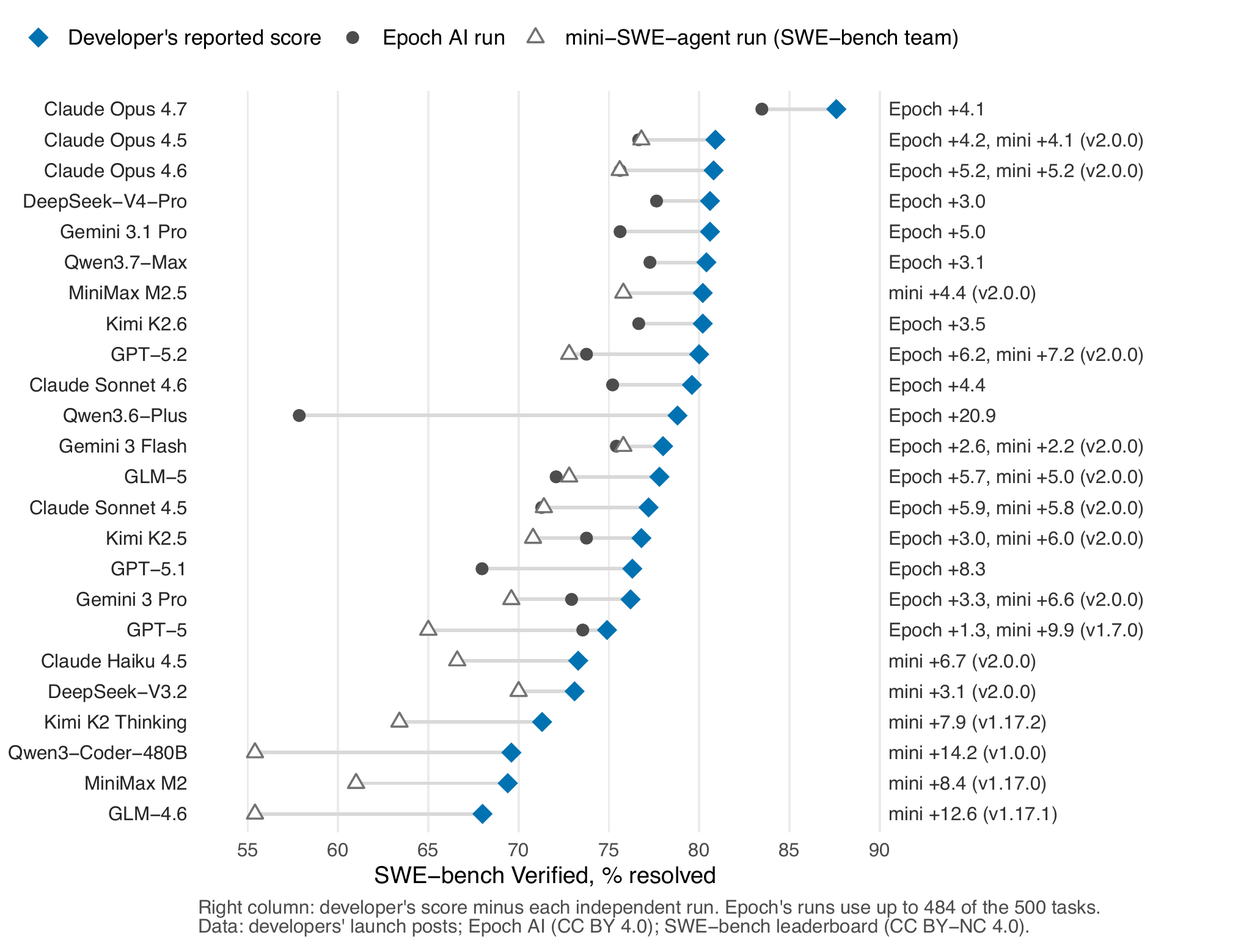
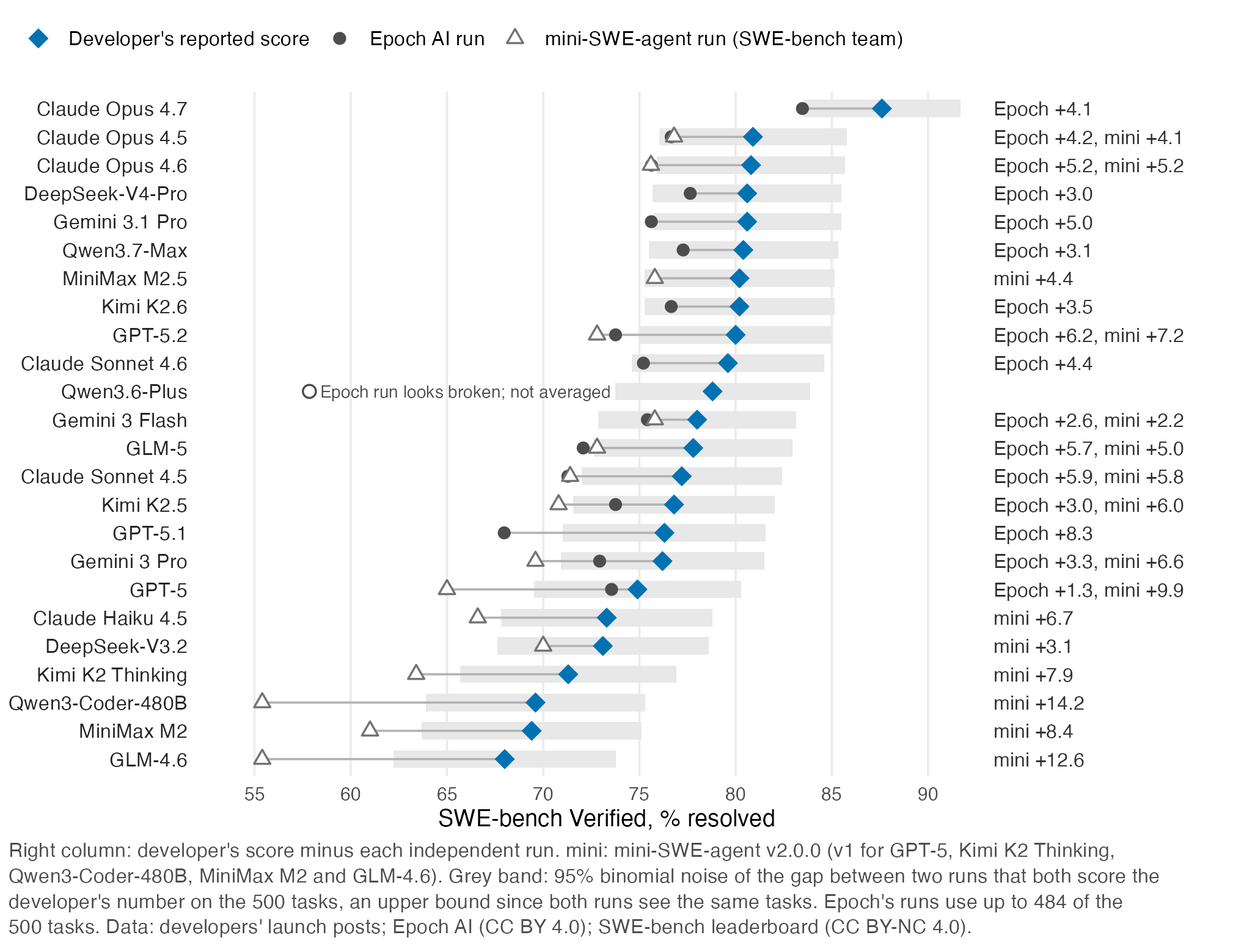
deploy: SolomonMg/website-hugo5@394f26f463defe457b8ee0e11236003db4a195b8

Changed region(s): [[0.0, 0.093, 0.937, 0.9916], [0.0, 0.093, 0.1562, 0.8677], [0.0625, 0.031, 0.7496, 0.062]]

diff --git a/index.html b/index.html
@@ -474,7 +474,7 @@ window.Quarto = {
 <div class="home-section"><h2 class="anchored">Writing</h2><a class="more" href="blog.html">Browse &amp; filter →</a></div>
 <div id="listing-all-posts" class="quarto-listing quarto-listing-container-default">
 <div class="list quarto-listing-default">
-<div class="quarto-post image-right" data-index="0" data-listing-date-sort="1794873600000" data-listing-file-modified-sort="1795020041529" data-listing-date-modified-sort="NaN" data-listing-reading-time-sort="13" data-listing-word-count-sort="2569">
+<div class="quarto-post image-right" data-index="0" data-listing-date-sort="1794873600000" data-listing-file-modified-sort="1795033465979" data-listing-date-modified-sort="NaN" data-listing-reading-time-sort="14" data-listing-word-count-sort="2761">
 <div class="thumbnail"><a href="./blog/hidden-measurement-error-llm-evals/index.html" class="no-external-icon">
 
 <img loading="lazy" src="./blog/hidden-measurement-error-llm-evals/featured.png" class="thumbnail-image">
@@ -498,7 +498,7 @@ Nov 17, 2026
 </a>
 </div>
 </div>
-<div class="quarto-post image-right" data-index="1" data-listing-date-sort="1779580800000" data-listing-file-modified-sort="1795020041544" data-listing-date-modified-sort="NaN" data-listing-reading-time-sort="4" data-listing-word-count-sort="687">
+<div class="quarto-post image-right" data-index="1" data-listing-date-sort="1779580800000" data-listing-file-modified-sort="1795033465990" data-listing-date-modified-sort="NaN" data-listing-reading-time-sort="4" data-listing-word-count-sort="687">
 <div class="thumbnail"><a href="./blog/state-media-llm/index.html" class="no-external-icon">
 
 <img loading="lazy" src="./blog/state-media-llm/featured.png" class="thumbnail-image">
@@ -522,7 +522,7 @@ May 24, 2026
 </a>
 </div>
 </div>
-<div class="quarto-post image-right" data-index="2" data-listing-date-sort="1704931200000" data-listing-file-modified-sort="1795020041516" data-listing-date-modified-sort="NaN" data-listing-reading-time-sort="8" data-listing-word-count-sort="1468">
+<div class="quarto-post image-right" data-index="2" data-listing-date-sort="1704931200000" data-listing-file-modified-sort="1795033465967" data-listing-date-modified-sort="NaN" data-listing-reading-time-sort="8" data-listing-word-count-sort="1468">
 <div class="thumbnail"><a href="./blog/election-projection-regularized-swing/index.html" class="no-external-icon">
 
 <img loading="lazy" src="./blog/election-projection-regularized-swing/featured.png" class="thumbnail-image">
@@ -546,7 +546,7 @@ Jan 11, 2024
 </a>
 </div>
 </div>
-<div class="quarto-post image-right" data-index="3" data-listing-date-sort="1690934400000" data-listing-file-modified-sort="1795020041545" data-listing-date-modified-sort="NaN" data-listing-reading-time-sort="25" data-listing-word-count-sort="4887">
+<div class="quarto-post image-right" data-index="3" data-listing-date-sort="1690934400000" data-listing-file-modified-sort="1795033465991" data-listing-date-modified-sort="NaN" data-listing-reading-time-sort="25" data-listing-word-count-sort="4887">
 <div class="thumbnail"><a href="./blog/thoughts-on-election-2020/index.html" class="no-external-icon">
 
 <img loading="lazy" src="./blog/thoughts-on-election-2020/featured.jpeg" class="thumbnail-image">
@@ -570,7 +570,7 @@ Aug 2, 2023
 </a>
 </div>
 </div>
-<div class="quarto-post image-right" data-index="4" data-listing-date-sort="1680480000000" data-listing-file-modified-sort="1795020041514" data-listing-date-modified-sort="NaN" data-listing-reading-time-sort="15" data-listing-word-count-sort="2888">
+<div class="quarto-post image-right" data-index="4" data-listing-date-sort="1680480000000" data-listing-file-modified-sort="1795033465966" data-listing-date-modified-sort="NaN" data-listing-reading-time-sort="15" data-listing-word-count-sort="2888">
 <div class="thumbnail"><a href="./blog/bluesky-quasi-decentralized-social-network/index.html" class="no-external-icon">
 
 <img loading="lazy" src="./blog/bluesky-quasi-decentralized-social-network/featured.jpg" class="thumbnail-image">
@@ -594,7 +594,7 @@ Apr 3, 2023
 </a>
 </div>
 </div>
-<div class="quarto-post image-right" data-index="5" data-listing-date-sort="1680480000000" data-listing-file-modified-sort="1795020041558" data-listing-date-modified-sort="NaN" data-listing-reading-time-sort="8" data-listing-word-count-sort="1558">
+<div class="quarto-post image-right" data-index="5" data-listing-date-sort="1680480000000" data-listing-file-modified-sort="1795033466001" data-listing-date-modified-sort="NaN" data-listing-reading-time-sort="8" data-listing-word-count-sort="1558">
 <div class="thumbnail"><a href="./blog/twitter-the-algorithm/index.html" class="no-external-icon">
 
 <img loading="lazy" src="./blog/twitter-the-algorithm/featured.png" class="thumbnail-image">
@@ -618,7 +618,7 @@ Apr 3, 2023
 </a>
 </div>
 </div>
-<div class="quarto-post image-right" data-index="6" data-listing-date-sort="1604793600000" data-listing-file-modified-sort="1795020041562" data-listing-date-modified-sort="NaN" data-listing-reading-time-sort="9" data-listing-word-count-sort="1608">
+<div class="quarto-post image-right" data-index="6" data-listing-date-sort="1604793600000" data-listing-file-modified-sort="1795033466004" data-listing-date-modified-sort="NaN" data-listing-reading-time-sort="9" data-listing-word-count-sort="1608">
 <div class="thumbnail"><a href="./blog/what-the-polls-got-wrong-in-2020/index.html" class="no-external-icon">
 
 <img loading="lazy" src="./blog/what-the-polls-got-wrong-in-2020/featured.png" class="thumbnail-image">
@@ -642,7 +642,7 @@ Nov 8, 2020
 </a>
 </div>
 </div>
-<div class="quarto-post image-right" data-index="7" data-listing-date-sort="1592611200000" data-listing-file-modified-sort="1795020041553" data-listing-date-modified-sort="NaN" data-listing-reading-time-sort="11" data-listing-word-count-sort="2041">
+<div class="quarto-post image-right" data-index="7" data-listing-date-sort="1592611200000" data-listing-file-modified-sort="1795033465997" data-listing-date-modified-sort="NaN" data-listing-reading-time-sort="11" data-listing-word-count-sort="2041">
 <div class="thumbnail"><a href="./blog/trumps-chances-are-better-than-they-look/index.html" class="no-external-icon">
 
 <img loading="lazy" src="./blog/trumps-chances-are-better-than-they-look/featured.jpg" class="thumbnail-image">
@@ -666,7 +666,7 @@ Jun 20, 2020
 </a>
 </div>
 </div>
-<div class="quarto-post image-right" data-index="8" data-listing-date-sort="1589760000000" data-listing-file-modified-sort="1795020041514" data-listing-date-modified-sort="NaN" data-listing-reading-time-sort="2" data-listing-word-count-sort="231">
+<div class="quarto-post image-right" data-index="8" data-listing-date-sort="1589760000000" data-listing-file-modified-sort="1795033465967" data-listing-date-modified-sort="NaN" data-listing-reading-time-sort="2" data-listing-word-count-sort="231">
 <div class="thumbnail"><a href="./blog/condor-data-release/index.html" class="no-external-icon">
 
 <img loading="lazy" src="./blog/condor-data-release/featured.png" class="thumbnail-image">
@@ -690,7 +690,7 @@ May 18, 2020
 </a>
 </div>
 </div>
-<div class="quarto-post image-right" data-index="9" data-listing-date-sort="1589760000000" data-listing-file-modified-sort="1795020041542" data-listing-date-modified-sort="NaN" data-listing-reading-time-sort="8" data-listing-word-count-sort="1406">
+<div class="quarto-post image-right" data-index="9" data-listing-date-sort="1589760000000" data-listing-file-modified-sort="1795033465988" data-listing-date-modified-sort="NaN" data-listing-reading-time-sort="8" data-listing-word-count-sort="1406">
 <div class="thumbnail"><a href="./blog/projecting-confidence/index.html" class="no-external-icon">
 
 <img loading="lazy" src="./blog/projecting-confidence/featured.jpg" class="thumbnail-image">
@@ -714,7 +714,7 @@ May 18, 2020
 </a>
 </div>
 </div>
-<div class="quarto-post image-right" data-index="10" data-listing-date-sort="1589673600000" data-listing-file-modified-sort="1795020041534" data-listing-date-modified-sort="NaN" data-listing-reading-time-sort="1" data-listing-word-count-sort="24">
+<div class="quarto-post image-right" data-index="10" data-listing-date-sort="1589673600000" data-listing-file-modified-sort="1795033465983" data-listing-date-modified-sort="NaN" data-listing-reading-time-sort="1" data-listing-word-count-sort="24">
 <div class="thumbnail"><a href="./blog/impression-of-influence/index.html" class="no-external-icon">
 
 <img loading="lazy" src="./blog/impression-of-influence/featured.png" class="thumbnail-image">
@@ -738,7 +738,7 @@ May 17, 2020
 </a>
 </div>
 </div>
-<div class="quarto-post image-right" data-index="11" data-listing-date-sort="1587859200000" data-listing-file-modified-sort="1795020041543" data-listing-date-modified-sort="NaN" data-listing-reading-time-sort="13" data-listing-word-count-sort="2467">
+<div class="quarto-post image-right" data-index="11" data-listing-date-sort="1587859200000" data-listing-file-modified-sort="1795033465990" data-listing-date-modified-sort="NaN" data-listing-reading-time-sort="13" data-listing-word-count-sort="2467">
 <div class="thumbnail"><a href="./blog/response-to-fivethirtyeights-podcast-about-our-paper-projecting-confidence/index.html" class="no-external-icon">
 
 <img loading="lazy" src="./blog/response-to-fivethirtyeights-podcast-about-our-paper-projecting-confidence/featured.png" class="thumbnail-image">
@@ -762,7 +762,7 @@ Apr 26, 2020
 </a>
 </div>
 </div>
-<div class="quarto-post image-right" data-index="12" data-listing-date-sort="1580601600000" data-listing-file-modified-sort="1795020041561" data-listing-date-modified-sort="NaN" data-listing-reading-time-sort="33" data-listing-word-count-sort="6484">
+<div class="quarto-post image-right" data-index="12" data-listing-date-sort="1580601600000" data-listing-file-modified-sort="1795033466004" data-listing-date-modified-sort="NaN" data-listing-reading-time-sort="33" data-listing-word-count-sort="6484">
 <div class="thumbnail"><a href="./blog/visualization-series-scatterplot-understanding-the-diamond-market/index.html" class="no-external-icon">
 
 <img loading="lazy" src="./blog/visualization-series-scatterplot-understanding-the-diamond-market/featured.png" class="thumbnail-image">
@@ -786,7 +786,7 @@ Feb 2, 2020
 </a>
 </div>
 </div>
-<div class="quarto-post image-right" data-index="13" data-listing-date-sort="1528848000000" data-listing-file-modified-sort="1795020041533" data-listing-date-modified-sort="NaN" data-listing-reading-time-sort="17" data-listing-word-count-sort="3252">
+<div class="quarto-post image-right" data-index="13" data-listing-date-sort="1528848000000" data-listing-file-modified-sort="1795033465982" data-listing-date-modified-sort="NaN" data-listing-reading-time-sort="17" data-listing-word-count-sort="3252">
 <div class="thumbnail"><a href="./blog/how-to-break-regression/index.html" class="no-external-icon">
 
 <img loading="lazy" src="./blog/how-to-break-regression/featured.png" class="thumbnail-image">
@@ -810,7 +810,7 @@ Jun 13, 2018
 </a>
 </div>
 </div>
-<div class="quarto-post image-right" data-index="14" data-listing-date-sort="1508112000000" data-listing-file-modified-sort="1795020041543" data-listing-date-modified-sort="NaN" data-listing-reading-time-sort="17" data-listing-word-count-sort="3333">
+<div class="quarto-post image-right" data-index="14" data-listing-date-sort="1508112000000" data-listing-file-modified-sort="1795033465990" data-listing-date-modified-sort="NaN" data-listing-reading-time-sort="17" data-listing-word-count-sort="3333">
 <div class="thumbnail"><a href="./blog/replication-of-bias-in-the-flesh/index.html" class="no-external-icon">
 
 <img loading="lazy" src="./blog/replication-of-bias-in-the-flesh/featured.png" class="thumbnail-image">
@@ -834,7 +834,7 @@ Oct 16, 2017
 </a>
 </div>
 </div>
-<div class="quarto-post image-right" data-index="15" data-listing-date-sort="1429833600000" data-listing-file-modified-sort="1795020041517" data-listing-date-modified-sort="NaN" data-listing-reading-time-sort="11" data-listing-word-count-sort="2179">
+<div class="quarto-post image-right" data-index="15" data-listing-date-sort="1429833600000" data-listing-file-modified-sort="1795033465968" data-listing-date-modified-sort="NaN" data-listing-reading-time-sort="11" data-listing-word-count-sort="2179">
 <div class="thumbnail"><a href="./blog/exposure-to-ideologically-diverse-response/index.html" class="no-external-icon">
 
 <img loading="lazy" src="./blog/exposure-to-ideologically-diverse-response/featured.png" class="thumbnail-image">
@@ -858,7 +858,7 @@ Apr 24, 2015
 </a>
 </div>
 </div>
-<div class="quarto-post image-right" data-index="16" data-listing-date-sort="1412985600000" data-listing-file-modified-sort="1795020041563" data-listing-date-modified-sort="NaN" data-listing-reading-time-sort="4" data-listing-word-count-sort="764">
+<div class="quarto-post image-right" data-index="16" data-listing-date-sort="1412985600000" data-listing-file-modified-sort="1795033466005" data-listing-date-modified-sort="NaN" data-listing-reading-time-sort="4" data-listing-word-count-sort="764">
 <div class="thumbnail"><a href="./blog/when-to-use-stacked-barcharts/index.html" class="no-external-icon">
 
 <img loading="lazy" src="./blog/when-to-use-stacked-barcharts/featured.png" class="thumbnail-image">
@@ -882,7 +882,7 @@ Oct 11, 2014
 </a>
 </div>
 </div>
-<div class="quarto-post image-right" data-index="17" data-listing-date-sort="1330819200000" data-listing-file-modified-sort="1795020041560" data-listing-date-modified-sort="NaN" data-listing-reading-time-sort="14" data-listing-word-count-sort="2690">
+<div class="quarto-post image-right" data-index="17" data-listing-date-sort="1330819200000" data-listing-file-modified-sort="1795033466003" data-listing-date-modified-sort="NaN" data-listing-reading-time-sort="14" data-listing-word-count-sort="2690">
 <div class="thumbnail"><a href="./blog/visualization-series-insight-from-cleveland-and-tufte-on-plotting-numeric-data-by-groups/index.html" class="no-external-icon">
 
 <img loading="lazy" src="./blog/visualization-series-insight-from-cleveland-and-tufte-on-plotting-numeric-data-by-groups/featured.png" class="thumbnail-image">
@@ -906,7 +906,7 @@ Mar 4, 2012
 </a>
 </div>
 </div>
-<div class="quarto-post image-right" data-index="18" data-listing-date-sort="1330819200000" data-listing-file-modified-sort="1795020041563" data-listing-date-modified-sort="NaN" data-listing-reading-time-sort="17" data-listing-word-count-sort="3397">
+<div class="quarto-post image-right" data-index="18" data-listing-date-sort="1330819200000" data-listing-file-modified-sort="1795033466005" data-listing-date-modified-sort="NaN" data-listing-reading-time-sort="17" data-listing-word-count-sort="3397">
 <div class="thumbnail"><a href="./blog/working-with-bipartite-affiliation-network-data-in-r/index.html" class="no-external-icon">
 
 <img loading="lazy" src="./blog/working-with-bipartite-affiliation-network-data-in-r/featured.jpg" class="thumbnail-image">

diff --git a/blog.html b/blog.html
@@ -451,7 +451,7 @@ window.Quarto = {
     </div>
 </div>
 <div class="list quarto-listing-default">
-<div class="quarto-post image-right" data-index="0" data-listing-date-sort="1794873600000" data-listing-file-modified-sort="1795020041529" data-listing-date-modified-sort="NaN" data-listing-reading-time-sort="13" data-listing-word-count-sort="2569">
+<div class="quarto-post image-right" data-index="0" data-listing-date-sort="1794873600000" data-listing-file-modified-sort="1795033465979" data-listing-date-modified-sort="NaN" data-listing-reading-time-sort="14" data-listing-word-count-sort="2761">
 <div class="thumbnail"><a href="./blog/hidden-measurement-error-llm-evals/index.html" class="no-external-icon">
 
 <img loading="lazy" src="./blog/hidden-measurement-error-llm-evals/featured.png" class="thumbnail-image">
@@ -475,7 +475,7 @@ Nov 17, 2026
 </a>
 </div>
 </div>
-<div class="quarto-post image-right" data-index="1" data-listing-date-sort="1779580800000" data-listing-file-modified-sort="1795020041544" data-listing-date-modified-sort="NaN" data-listing-reading-time-sort="4" data-listing-word-count-sort="687">
+<div class="quarto-post image-right" data-index="1" data-listing-date-sort="1779580800000" data-listing-file-modified-sort="1795033465990" data-listing-date-modified-sort="NaN" data-listing-reading-time-sort="4" data-listing-word-count-sort="687">
 <div class="thumbnail"><a href="./blog/state-media-llm/index.html" class="no-external-icon">
 
 <img loading="lazy" src="./blog/state-media-llm/featured.png" class="thumbnail-image">
@@ -499,7 +499,7 @@ May 24, 2026
 </a>
 </div>
 </div>
-<div class="quarto-post image-right" data-index="2" data-listing-date-sort="1704931200000" data-listing-file-modified-sort="1795020041516" data-listing-date-modified-sort="NaN" data-listing-reading-time-sort="8" data-listing-word-count-sort="1468">
+<div class="quarto-post image-right" data-index="2" data-listing-date-sort="1704931200000" data-listing-file-modified-sort="1795033465967" data-listing-date-modified-sort="NaN" data-listing-reading-time-sort="8" data-listing-word-count-sort="1468">
 <div class="thumbnail"><a href="./blog/election-projection-regularized-swing/index.html" class="no-external-icon">
 
 <img loading="lazy" src="./blog/election-projection-regularized-swing/featured.png" class="thumbnail-image">
@@ -523,7 +523,7 @@ Jan 11, 2024
 </a>
 </div>
 </div>
-<div class="quarto-post image-right" data-index="3" data-listing-date-sort="1690934400000" data-listing-file-modified-sort="1795020041545" data-listing-date-modified-sort="NaN" data-listing-reading-time-sort="25" data-listing-word-count-sort="4887">
+<div class="quarto-post image-right" data-index="3" data-listing-date-sort="1690934400000" data-listing-file-modified-sort="1795033465991" data-listing-date-modified-sort="NaN" data-listing-reading-time-sort="25" data-listing-word-count-sort="4887">
 <div class="thumbnail"><a href="./blog/thoughts-on-election-2020/index.html" class="no-external-icon">
 
 <img loading="lazy" src="./blog/thoughts-on-election-2020/featured.jpeg" class="thumbnail-image">
@@ -547,7 +547,7 @@ Aug 2, 2023
 </a>
 </div>
 </div>
-<div class="quarto-post image-right" data-index="4" data-listing-date-sort="1680480000000" data-listing-file-modified-sort="1795020041514" data-listing-date-modified-sort="NaN" data-listing-reading-time-sort="15" data-listing-word-count-sort="2888">
+<div class="quarto-post image-right" data-index="4" data-listing-date-sort="1680480000000" data-listing-file-modified-sort="1795033465966" data-listing-date-modified-sort="NaN" data-listing-reading-time-sort="15" data-listing-word-count-sort="2888">
 <div class="thumbnail"><a href="./blog/bluesky-quasi-decentralized-social-network/index.html" class="no-external-icon">
 
 <img loading="lazy" src="./blog/bluesky-quasi-decentralized-social-network/featured.jpg" class="thumbnail-image">
@@ -571,7 +571,7 @@ Apr 3, 2023
 </a>
 </div>
 </div>
-<div class="quarto-post image-right" data-index="5" data-listing-date-sort="1680480000000" data-listing-file-modified-sort="1795020041558" data-listing-date-modified-sort="NaN" data-listing-reading-time-sort="8" data-listing-word-count-sort="1558">
+<div class="quarto-post image-right" data-index="5" data-listing-date-sort="1680480000000" data-listing-file-modified-sort="1795033466001" data-listing-date-modified-sort="NaN" data-listing-reading-time-sort="8" data-listing-word-count-sort="1558">
 <div class="thumbnail"><a href="./blog/twitter-the-algorithm/index.html" class="no-external-icon">
 
 <img loading="lazy" src="./blog/twitter-the-algorithm/featured.png" class="thumbnail-image">
@@ -595,7 +595,7 @@ Apr 3, 2023
 </a>
 </div>
 </div>
-<div class="quarto-post image-right" data-index="6" data-listing-date-sort="1604793600000" data-listing-file-modified-sort="1795020041562" data-listing-date-modified-sort="NaN" data-listing-reading-time-sort="9" data-listing-word-count-sort="1608">
+<div class="quarto-post image-right" data-index="6" data-listing-date-sort="1604793600000" data-listing-file-modified-sort="1795033466004" data-listing-date-modified-sort="NaN" data-listing-reading-time-sort="9" data-listing-word-count-sort="1608">
 <div class="thumbnail"><a href="./blog/what-the-polls-got-wrong-in-2020/index.html" class="no-external-icon">
 
 <img loading="lazy" src="./blog/what-the-polls-got-wrong-in-2020/featured.png" class="thumbnail-image">
@@ -619,7 +619,7 @@ Nov 8, 2020
 </a>
 </div>
 </div>
-<div class="quarto-post image-right" data-index="7" data-listing-date-sort="1592611200000" data-listing-file-modified-sort="1795020041553" data-listing-date-modified-sort="NaN" data-listing-reading-time-sort="11" data-listing-word-count-sort="2041">
+<div class="quarto-post image-right" data-index="7" data-listing-date-sort="1592611200000" data-listing-file-modified-sort="1795033465997" data-listing-date-modified-sort="NaN" data-listing-reading-time-sort="11" data-listing-word-count-sort="2041">
 <div class="thumbnail"><a href="./blog/trumps-chances-are-better-than-they-look/index.html" class="no-external-icon">
 
 <img loading="lazy" src="./blog/trumps-chances-are-better-than-they-look/featured.jpg" class="thumbnail-image">
@@ -643,7 +643,7 @@ Jun 20, 2020
 </a>
 </div>
 </div>
-<div class="quarto-post image-right" data-index="8" data-listing-date-sort="1589760000000" data-listing-file-modified-sort="1795020041514" data-listing-date-modified-sort="NaN" data-listing-reading-time-sort="2" data-listing-word-count-sort="231">
+<div class="quarto-post image-right" data-index="8" data-listing-date-sort="1589760000000" data-listing-file-modified-sort="1795033465967" data-listing-date-modified-sort="NaN" data-listing-reading-time-sort="2" data-listing-word-count-sort="231">
 <div class="thumbnail"><a href="./blog/condor-data-release/index.html" class="no-external-icon">
 
 <img loading="lazy" src="./blog/condor-data-release/featured.png" class="thumbnail-image">
@@ -667,7 +667,7 @@ May 18, 2020
 </a>
 </div>
 </div>
-<div class="quarto-post image-right" data-index="9" data-listing-date-sort="1589760000000" data-listing-file-modified-sort="1795020041542" data-listing-date-modified-sort="NaN" data-listing-reading-time-sort="8" data-listing-word-count-sort="1406">
+<div class="quarto-post image-right" data-index="9" data-listing-date-sort="1589760000000" data-listing-file-modified-sort="1795033465988" data-listing-date-modified-sort="NaN" data-listing-reading-time-sort="8" data-listing-word-count-sort="1406">
 <div class="thumbnail"><a href="./blog/projecting-confidence/index.html" class="no-external-icon">
 
 <img loading="lazy" src="./blog/projecting-confidence/featured.jpg" class="thumbnail-image">
@@ -691,7 +691,7 @@ May 18, 2020
 </a>
 </div>
 </div>
-<div class="quarto-post image-right" data-index="10" data-listing-date-sort="1589673600000" data-listing-file-modified-sort="1795020041534" data-listing-date-modified-sort="NaN" data-listing-reading-time-sort="1" data-listing-word-count-sort="24">
+<div class="quarto-post image-right" data-index="10" data-listing-date-sort="1589673600000" data-listing-file-modified-sort="1795033465983" data-listing-date-modified-sort="NaN" data-listing-reading-time-sort="1" data-listing-word-count-sort="24">
 <div class="thumbnail"><a href="./blog/impression-of-influence/index.html" class="no-external-icon">
 
 <img loading="lazy" src="./blog/impression-of-influence/featured.png" class="thumbnail-image">
@@ -715,7 +715,7 @@ May 17, 2020
 </a>
 </div>
 </div>
-<div class="quarto-post image-right" data-index="11" data-listing-date-sort="1587859200000" data-listing-file-modified-sort="1795020041543" data-listing-date-modified-sort="NaN" data-listing-reading-time-sort="13" data-listing-word-count-sort="2467">
+<div class="quarto-post image-right" data-index="11" data-listing-date-sort="1587859200000" data-listing-file-modified-sort="1795033465990" data-listing-date-modified-sort="NaN" data-listing-reading-time-sort="13" data-listing-word-count-sort="2467">
 <div class="thumbnail"><a href="./blog/response-to-fivethirtyeights-podcast-about-our-paper-projecting-confidence/index.html" class="no-external-icon">
 
 <img loading="lazy" src="./blog/response-to-fivethirtyeights-podcast-about-our-paper-projecting-confidence/featured.png" class="thumbnail-image">
@@ -739,7 +739,7 @@ Apr 26, 2020
 </a>
 </div>
 </div>
-<div class="quarto-post image-right" data-index="12" data-listing-date-sort="1580601600000" data-listing-file-modified-sort="1795020041561" data-listing-date-modified-sort="NaN" data-listing-reading-time-sort="33" data-listing-word-count-sort="6484">
+<div class="quarto-post image-right" data-index="12" data-listing-date-sort="1580601600000" data-listing-file-modified-sort="1795033466004" data-listing-date-modified-sort="NaN" data-listing-reading-time-sort="33" data-listing-word-count-sort="6484">
 <div class="thumbnail"><a href="./blog/visualization-series-scatterplot-understanding-the-diamond-market/index.html" class="no-external-icon">
 
 <img loading="lazy" src="./blog/visualization-series-scatterplot-understanding-the-diamond-market/featured.png" class="thumbnail-image">
@@ -763,7 +763,7 @@ Feb 2, 2020
 </a>
 </div>
 </div>
-<div class="quarto-post image-right" data-index="13" data-listing-date-sort="1528848000000" data-listing-file-modified-sort="1795020041533" data-listing-date-modified-sort="NaN" data-listing-reading-time-sort="17" data-listing-word-count-sort="3252">
+<div class="quarto-post image-right" data-index="13" data-listing-date-sort="1528848000000" data-listing-file-modified-sort="1795033465982" data-listing-date-modified-sort="NaN" data-listing-reading-time-sort="17" data-listing-word-count-sort="3252">
 <div class="thumbnail"><a href="./blog/how-to-break-regression/index.html" class="no-external-icon">
 
 <img loading="lazy" src="./blog/how-to-break-regression/featured.png" class="thumbnail-image">
@@ -787,7 +787,7 @@ Jun 13, 2018
 </a>
 </div>
 </div>
-<div class="quarto-post image-right" data-index="14" data-listing-date-sort="1508112000000" data-listing-file-modified-sort="1795020041543" data-listing-date-modified-sort="NaN" data-listing-reading-time-sort="17" data-listing-word-count-sort="3333">
+<div class="quarto-post image-right" data-index="14" data-listing-date-sort="1508112000000" data-listing-file-modified-sort="1795033465990" data-listing-date-modified-sort="NaN" data-listing-reading-time-sort="17" data-listing-word-count-sort="3333">
 <div class="thumbnail"><a href="./blog/replication-of-bias-in-the-flesh/index.html" class="no-external-icon">
 
 <img loading="lazy" src="./blog/replication-of-bias-in-the-flesh/featured.png" class="thumbnail-image">
@@ -811,7 +811,7 @@ Oct 16, 2017
 </a>
 </div>
 </div>
-<div class="quarto-post image-right" data-index="15" data-listing-date-sort="1429833600000" data-listing-file-modified-sort="1795020041517" data-listing-date-modified-sort="NaN" data-listing-reading-time-sort="11" data-listing-word-count-sort="2179">
+<div class="quarto-post image-right" data-index="15" data-listing-date-sort="1429833600000" data-listing-file-modified-sort="1795033465968" data-listing-date-modified-sort="NaN" data-listing-reading-time-sort="11" data-listing-word-count-sort="2179">
 <div class="thumbnail"><a href="./blog/exposure-to-ideologically-diverse-response/index.html" class="no-external-icon">
 
 <img loading="lazy" src="./blog/exposure-to-ideologically-diverse-response/featured.png" class="thumbnail-image">
@@ -835,7 +835,7 @@ Apr 24, 2015
 </a>
 </div>
 </div>
-<div class="quarto-post image-right" data-index="16" data-listing-date-sort="1412985600000" data-listing-file-modified-sort="1795020041563" data-listing-date-modified-sort="NaN" data-listing-reading-time-sort="4" data-listing-word-count-sort="764">
+<div class="quarto-post image-right" data-index="16" data-listing-date-sort="1412985600000" data-listing-file-modified-sort="1795033466005" data-listing-date-modified-sort="NaN" data-listing-reading-time-sort="4" data-listing-word-count-sort="764">
 <div class="thumbnail"><a href="./blog/when-to-use-stacked-barcharts/index.html" class="no-external-icon">
 
 <img loading="lazy" src="./blog/when-to-use-stacked-barcharts/featured.png" class="thumbnail-image">
@@ -859,7 +859,7 @@ Oct 11, 2014
 </a>
 </div>
 </div>
-<div class="quarto-post image-right" data-index="17" data-listing-date-sort="1330819200000" data-listing-file-modified-sort="1795020041560" data-listing-date-modified-sort="NaN" data-listing-reading-time-sort="14" data-listing-word-count-sort="2690">
+<div class="quarto-post image-right" data-index="17" data-listing-date-sort="1330819200000" data-listing-file-modified-sort="1795033466003" data-listing-date-modified-sort="NaN" data-listing-reading-time-sort="14" data-listing-word-count-sort="2690">
 <div class="thumbnail"><a href="./blog/visualization-series-insight-from-cleveland-and-tufte-on-plotting-numeric-data-by-groups/index.html" class="no-external-icon">
 
 <img loading="lazy" src="./blog/visualization-series-insight-from-cleveland-and-tufte-on-plotting-numeric-data-by-groups/featured.png" class="thumbnail-image">
@@ -883,7 +883,7 @@ Mar 4, 2012
 </a>
 </div>
 </div>
-<div class="quarto-post image-right" data-index="18" data-listing-date-sort="1330819200000" data-listing-file-modified-sort="1795020041563" data-listing-date-modified-sort="NaN" data-listing-reading-time-sort="17" data-listing-word-count-sort="3397">
+<div class="quarto-post image-right" data-index="18" data-listing-date-sort="1330819200000" data-listing-file-modified-sort="1795033466005" data-listing-date-modified-sort="NaN" data-listing-reading-time-sort="17" data-listing-word-count-sort="3397">
 <div class="thumbnail"><a href="./blog/working-with-bipartite-affiliation-network-data-in-r/index.html" class="no-external-icon">
 
 <img loading="lazy" src="./blog/working-with-bipartite-affiliation-network-data-in-r/featured.jpg" class="thumbnail-image">

diff --git a/blog/hidden-measurement-error-llm-evals/index.html b/blog/hidden-measurement-error-llm-evals/index.html
@@ -409,14 +409,14 @@ gtag('config', 'G-9XTZZP2CJ8', { 'anonymize_ip': true});
 <p>Benchmark hacking (like p-hacking) is where you test many versions of a model with slightly different setups and only publish the best score. It depicts noise as signal.</p>
 <div class="quarto-figure quarto-figure-center">
 <figure class="figure">
-<p><img src="anim_hacking_setups_avg.gif" class="img-fluid figure-img" style="width:85.0%"></p>
+<p><img src="anim_hacking_setups_avg.gif" class="img-fluid figure-img" style="width:85.0%" alt="Animation of a simulated lab trying one model under 15 setups. The published best lands 6.5 points above the true score and its interval misses it, while the interval from averaging all 15 setups covers it."></p>
 <figcaption>A simulated lab tries one model under 15 setups, and publishes the best. The orange interval averages all 15 setups and properly estimates noise (TEE, below).</figcaption>
 </figure>
 </div>
 <p>Are labs doing this? If so, on the most prized benchmarks we should see higher scores on their own runs than from independent evaluators. Indeed, on SWE-bench Verified, labs’ launch scores beat independent runs by 4 to 5 points on average. Unique harness and other settings likely drive much of the difference. One lab’s launch scores for two models, for example, used a “minor prompt addition” telling the model to “use tools as much as possible, ideally more than 100 times” and to write its own tests first. One of those runs scored 6 points above Epoch’s run of the same model. To be clear the lab disclosed this, and later launches report prompt-modified scores separately. (This analysis and the next are meant to tie this to the real world and are not in the paper.)</p>
 <div class="quarto-figure quarto-figure-center">
 <figure class="figure">
-<p><img src="featured.png" class="img-fluid figure-img" style="width:75.0%"></p>
+<p><img src="featured.png" class="img-fluid figure-img" style="width:75.0%" alt="Dot plot: for every model, the developer's reported SWE-bench Verified score sits to the right of the independent runs by Epoch AI and the SWE-bench team."></p>
 <figcaption>On SWE-bench Verified, labs consistently score their own model higher than do independent evaluators.</figcaption>
 </figure>
 </div>
@@ -425,6 +425,13 @@ gtag('config', 'G-9XTZZP2CJ8', { 'anonymize_ip': true});
 <figure class="figure">
 <p><img src="tbench2_lab_vs_lb.png" class="img-fluid figure-img" style="width:75.0%" alt="Developers who used a different harness reported Terminal-Bench 2.0 scores 7 to 19 points above the leaderboard's run of the same model."></p>
 <figcaption>Terminal-Bench 2.0 scores are generally higher for developers who ran their own or an alternate harness (bottom panel) than those who used Terminus 2, the leaderboard’s harness.</figcaption>
+</figure>
+</div>
+<p>Is it the harness, or are labs just picking their best runs? Wiz’s Cyber Model Arena, a security benchmark, helps tell these apart, because Wiz ran every model itself. It ran 22 models in two harnesses: Claude Code (Anthropic’s coding agent) and a simple baseline with one bash tool (ADK React). On average, Claude models scored 7.5 points higher in Claude Code than in the baseline, whereas other developers’ models scored only 0.8 points higher. So a developer’s harness can work better for its own models. That said, it doesn’t always: on average, Gemini models scored 2.4 points lower in Google’s own harness (Antigravity) than in the baseline. This analysis is also not in the paper.</p>
+<div class="quarto-figure quarto-figure-center">
+<figure class="figure">
+<p><img src="fig_wiz_harness_gap.png" class="img-fluid figure-img" style="width:80.0%" alt="Strip plot of score differences against a simple baseline harness on Wiz's Cyber Model Arena. Claude models average +7.5 points in Claude Code, other developers' models +0.8, Gemini models -2.4 in Google's Antigravity, and GPT models +2.5 in OpenAI's Codex."></p>
+<figcaption>Claude models gain far more from Claude Code than other developers’ models do, while Gemini models don’t gain from Google’s harness. Each dot is one model; the grey band shows how far noise alone can move a score.</figcaption>
 </figure>
 </div>
 <p>Is using a better harness really “noise?” Well, scores depend on the harness, and different harnesses help different models. So if we’re trying to measure capability and we ignore the harness there’s hidden variability.</p>
@@ -470,7 +477,6 @@ More about benchmarks and benchmaxxing
 </figure>
 </div>
 <p>These intervals do not account for everything. They leave out each harness’s average shift (one harness runs every model on Vals.ai’s board, so it leaves the ranks unchanged), the checker version (Terminal-Bench 4.1’s fixed checkers moved official scores by -1.2 to +2.7 points, and Vals.ai’s board is 4.0), and rewording of each task’s instructions.</p>
-<p>The paper finds the same on Terminal-Bench 2.0. Its authors ran 17 models across six harnesses, about 5 trials per task, so we can estimate how much a model’s score depends on the harness beyond rerun noise: 3.5 points (SD). Of the 16 neighboring pairs of models run under Terminus 2, the published intervals separate 4. Once harness variance is added, none separate.</p>
 <p>Many leaderboards fall short of even the naive interval. SWE-bench and τ-bench report no interval at all. MLE-bench, PaperBench, Vals.ai, and Terminal-Bench report intervals from reruns alone, which hold the tasks fixed. OpenAI’s system cards say their own resampling approach “can lead to overly tight confidence intervals.”</p>
 <p>If you run a leaderboard, please show the red CI. These intervals account for which tasks were picked and how each model was run, along with reruns. To pilot, run a few models under 2-3 harnesses or prompts.</p>
 <p><strong>Total Evaluation Error</strong></p>
